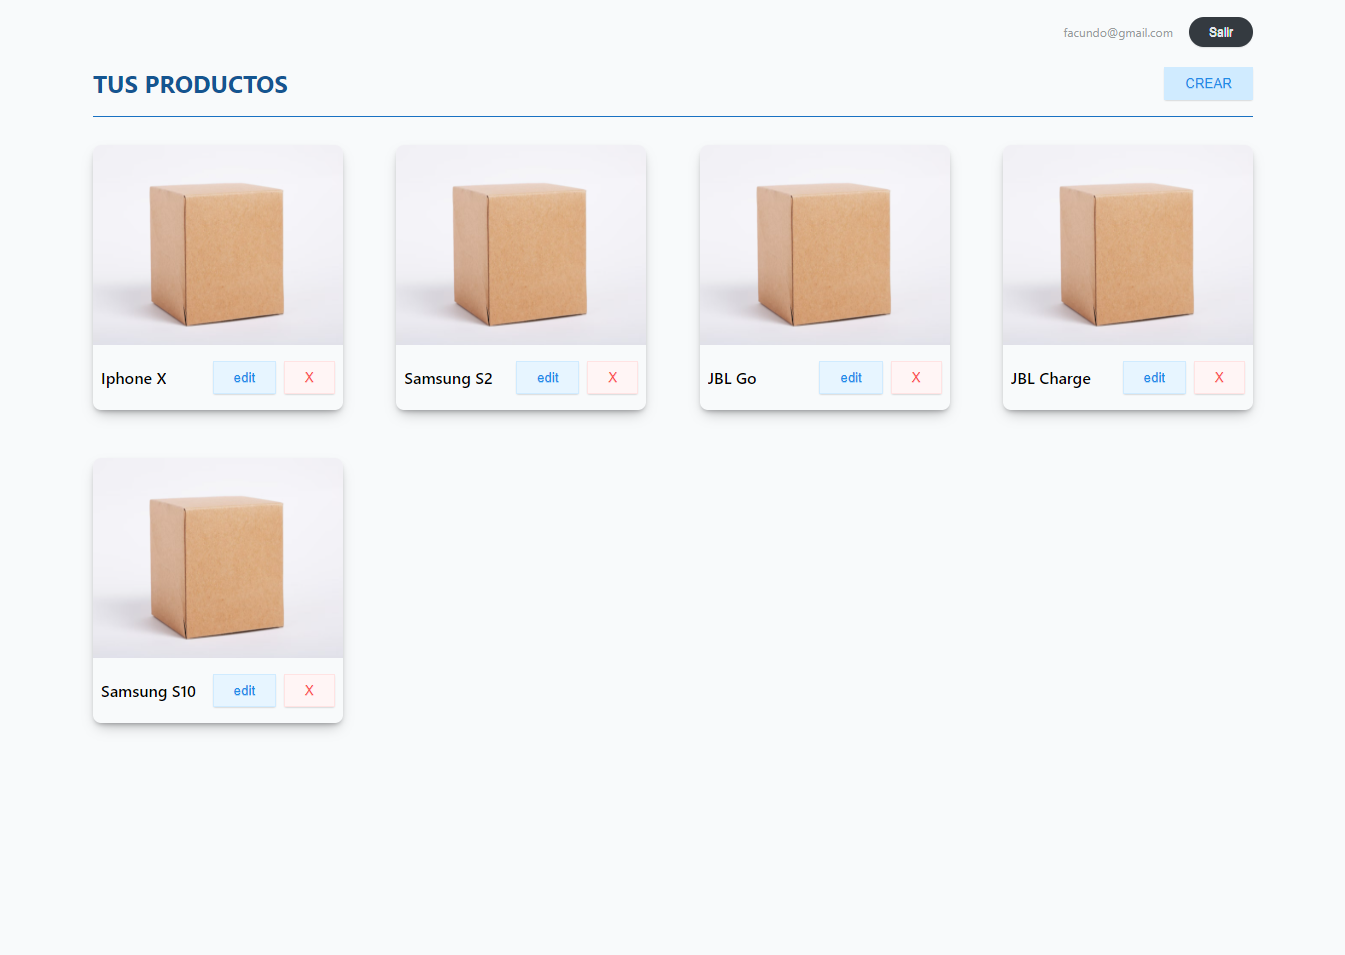
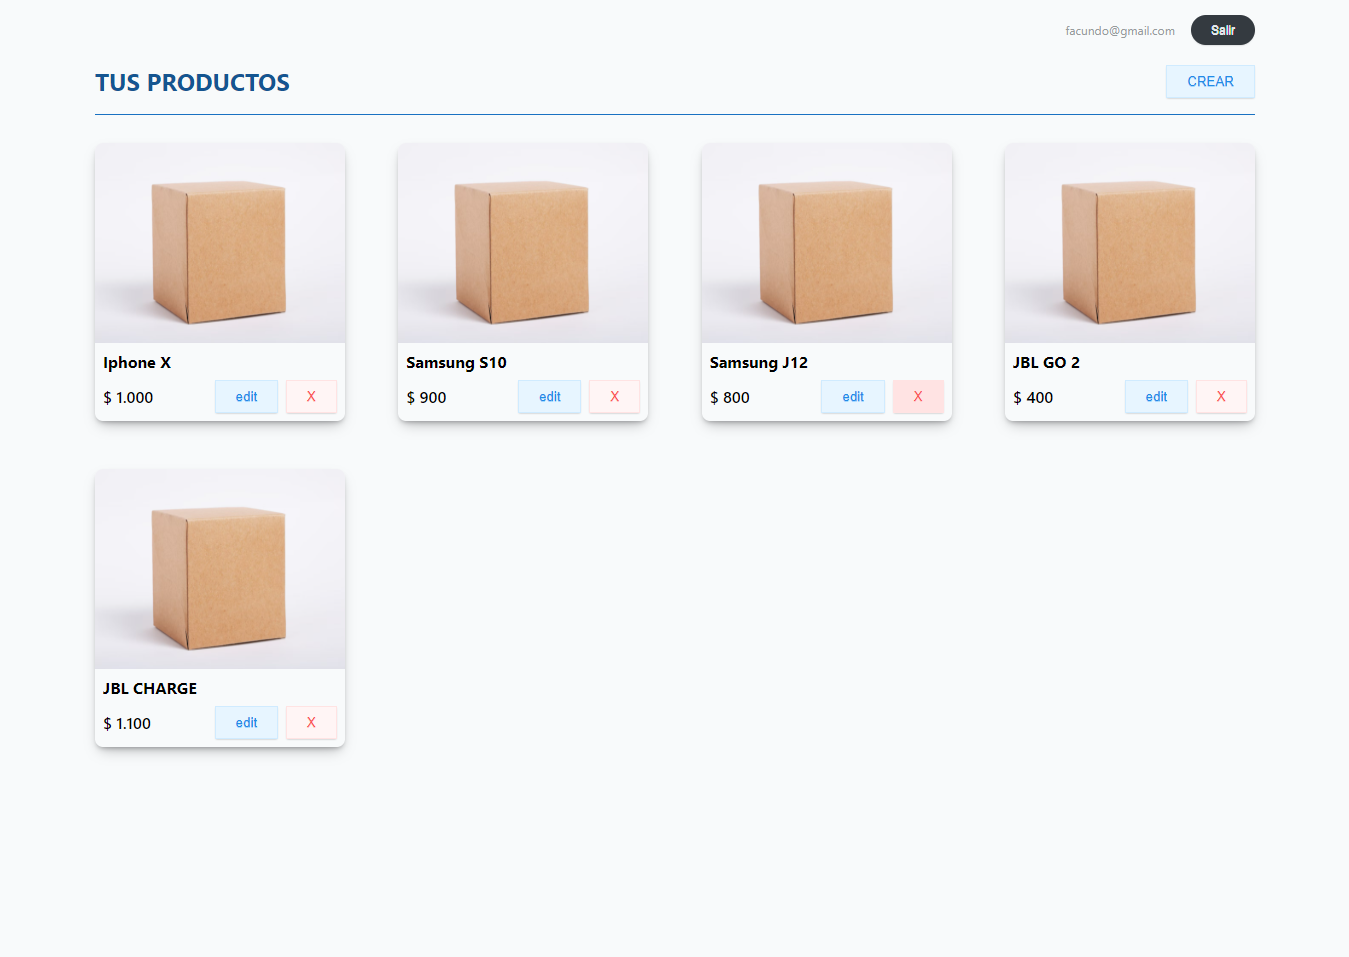
add price to Product

diff --git a/client/src/components/ProductCard/ProductCard.js b/client/src/components/ProductCard/ProductCard.js
@@ -1,7 +1,7 @@
 import axios from "axios";
 import { useContext, useState } from "react";
 import { UserContext } from "../../context/context";
-import { fetchProducts } from "../../utils/products";
+import { fetchProducts, formatPrice } from "../../utils/products";
 
 import Button from "../Button/Button";
 import CreateProduct from "../CreateProduct/CreateProduct";
@@ -32,8 +32,7 @@ export default function ProductCard({ product, setProducts }) {
         <CreateProduct
           setShowModal={setShowUpdateModal}
           setProducts={setProducts}
-          productId={product._id}
-          productName={product.name}
+          product={product}
         />
       </Modal>
 
@@ -59,20 +58,23 @@ export default function ProductCard({ product, setProducts }) {
             src="https://images.unsplash.com/photo-1656543802898-41c8c46683a7?ixlib=rb-4.0.3&ixid=MnwxMjA3fDB8MHxwaG90by1wYWdlfHx8fGVufDB8fHx8&auto=format&fit=crop&w=1171&q=80"
           />
         </div>
-        <div className={s.flex}>
+        <div className={s.padding}>
           <p>{product.name}</p>
-          <div className={s.margin_l_auto}>
-            <Button
-              text="edit"
-              type="button"
-              handleClick={() => setShowUpdateModal(true)}
-            />
-            <Button
-              text="X"
-              styles="danger"
-              type="button"
-              handleClick={() => setShowDeleteModal(true)}
-            />
+          <div className={s.flex}>
+            <p>{formatPrice(product.price)}</p>
+            <div className={s.margin_l_auto}>
+              <Button
+                text="edit"
+                type="button"
+                handleClick={() => setShowUpdateModal(true)}
+              />
+              <Button
+                text="X"
+                styles="danger"
+                type="button"
+                handleClick={() => setShowDeleteModal(true)}
+              />
+            </div>
           </div>
         </div>
       </article>

diff --git a/client/src/components/CreateProduct/CreateProduct.js b/client/src/components/CreateProduct/CreateProduct.js
@@ -7,31 +7,32 @@ import Button from "../Button/Button";
 
 import s from "./CreateProduct.module.css";
 
-export default function CreateProduct({
-  isOpen,
-  setShowModal,
-  setProducts,
-  productId,
-  productName,
-}) {
-  const [name, setName] = useState(productName ? productName : "");
+export default function CreateProduct({ setShowModal, setProducts, product }) {
+  const [name, setName] = useState(product?.name ? product.name : "");
+  const [price, setPrice] = useState(product?.price ? product.price : null);
   const { userId } = useContext(UserContext);
 
   const handleSubmit = async (e) => {
     e.preventDefault();
 
     try {
-      if (productId) {
+      if (product?._id) {
         await axios.put("http://localhost:3001/product", {
           name,
-          id: productId,
+          price,
+          id: product._id,
         });
       } else {
-        await axios.post("http://localhost:3001/product", { name, userId });
+        await axios.post("http://localhost:3001/product", {
+          name,
+          price,
+          userId,
+        });
       }
 
       fetchProducts(userId).then((res) => setProducts(res.data));
       setName("");
+      setPrice("");
       setShowModal(false);
     } catch (e) {
       console.log(e);
@@ -54,9 +55,15 @@ export default function CreateProduct({
           value={name}
           onChange={(e) => setName(e.target.value)}
         />
+        <label>Precio</label>
+        <input
+          type="text"
+          value={price}
+          onChange={(e) => setPrice(e.target.value)}
+        />
         <Button
           type="submit"
-          text={productId ? "ACTUALIZAR" : "CREAR"}
+          text={product?._id ? "ACTUALIZAR" : "CREAR"}
           disabled={!name.length > 0}
         />
       </form>

diff --git a/api/controllers/productController.js b/api/controllers/productController.js
@@ -12,11 +12,12 @@ module.exports.getProducts = async (req, res) => {
 };
 
 module.exports.createProduct = async (req, res) => {
-  const { name, userId } = req.body;
+  const { name, price, userId } = req.body;
   try {
     if (name) {
       const newProduct = await Product.create({
         name,
+        price,
         userId,
       });
 
@@ -30,13 +31,13 @@ module.exports.createProduct = async (req, res) => {
 };
 
 module.exports.updateProduct = async (req, res) => {
-  const { name, id } = req.body;
+  const { name, price, id } = req.body;
 
   try {
     if (name && id) {
       const updatedProduct = await Product.findByIdAndUpdate(
         { _id: id },
-        { name }
+        { name, price }
       );
       return res.status(200).json({ success: true, updatedProduct });
     }

diff --git a/client/src/components/ProductCard/ProductCard.module.css b/client/src/components/ProductCard/ProductCard.module.css
@@ -17,20 +17,28 @@
   height: 100%;
 }
 
-.card_container p {
-  font-weight: 600;
+.card_container .padding > p {
+  font-weight: 700;
   overflow: hidden;
   white-space: nowrap; /* Don't forget this one */
   text-overflow: ellipsis;
 }
 
+.card_container .padding {
+  padding: var(--size-2);
+}
+
 .card_container .flex {
-  padding: var(--size-3) var(--size-2);
+  margin-top: var(--size-2);
   border-bottom-left-radius: var(--size-2);
   border-bottom-right-radius: var(--size-2);
   display: flex;
   align-items: center;
   gap: var(--size-2);
+}
+
+.card_container .flex > p {
+  font-weight: 500;
 }
 
 .card_container .flex .margin_l_auto {

diff --git a/client/src/utils/products.js b/client/src/utils/products.js
@@ -3,3 +3,11 @@ import axios from "axios";
 export const fetchProducts = async (userId) => {
   return await axios(`http://localhost:3001/product?userId=${userId}`);
 };
+
+export const formatPrice = (price) => {
+  return new Intl.NumberFormat("es-AR", {
+    style: "currency",
+    currency: "ARS",
+    maximumSignificantDigits: 12,
+  }).format(price);
+};

diff --git a/api/models/productModel.js b/api/models/productModel.js
@@ -5,6 +5,10 @@ const productSchema = new mongoose.Schema({
     type: String,
     required: [true, "Product name is required"],
   },
+  price: {
+    type: Number,
+    required: [true, "Price is required"],
+  },
   userId: {
     type: String,
     required: [true, "User ID is required"],
